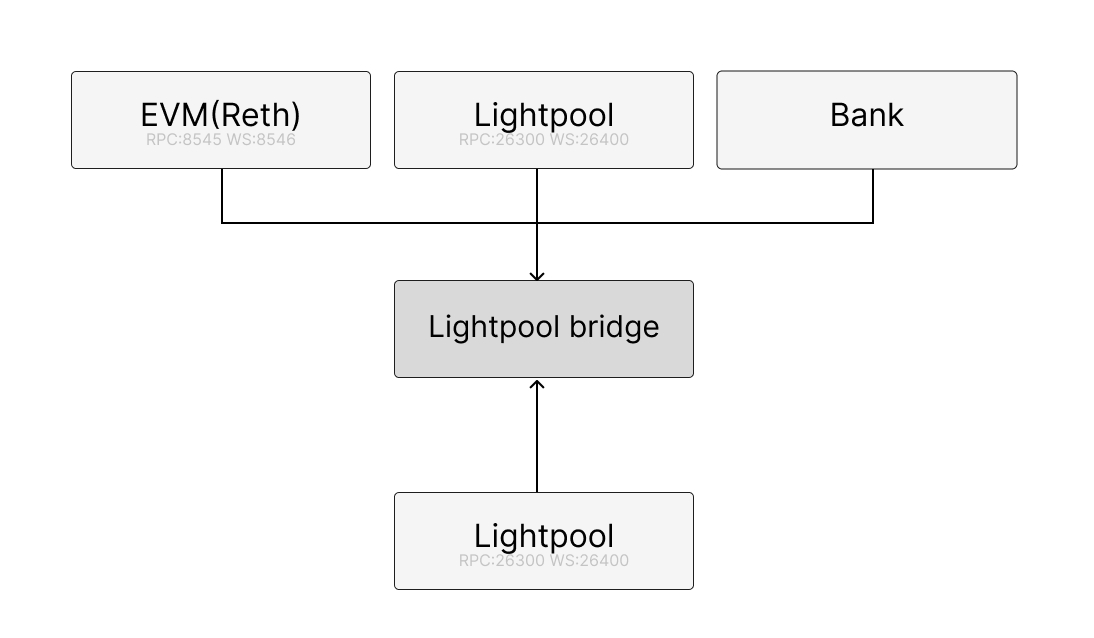
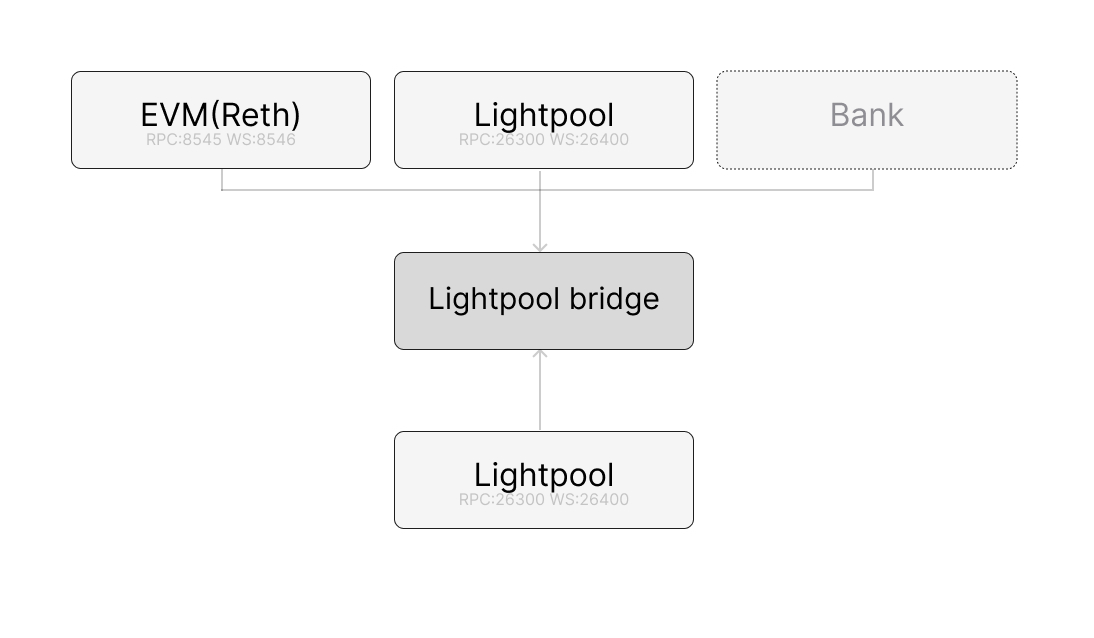
update arch

diff --git a/README.md b/README.md
@@ -1,6 +1,6 @@
 # lightpool-bridge
 
-Standalone off-chain bridge link for LightPool: watches foreign chains and local LightPool, collects validator signatures, and submits confirmations / unlocks. Includes EVM hub contracts under `contracts/` and an embedded Admin UI.
+Off-chain bridge for **deposit and withdraw** between **EVM (Reth)**, **LightPool**, and **Bank** on one side and a **LightPool** node on the other. It watches those endpoints, collects validator signatures, and submits confirmations / unlocks. Ships EVM hub contracts under `contracts/` and an embedded Admin UI.
 
 ## Architecture
 
